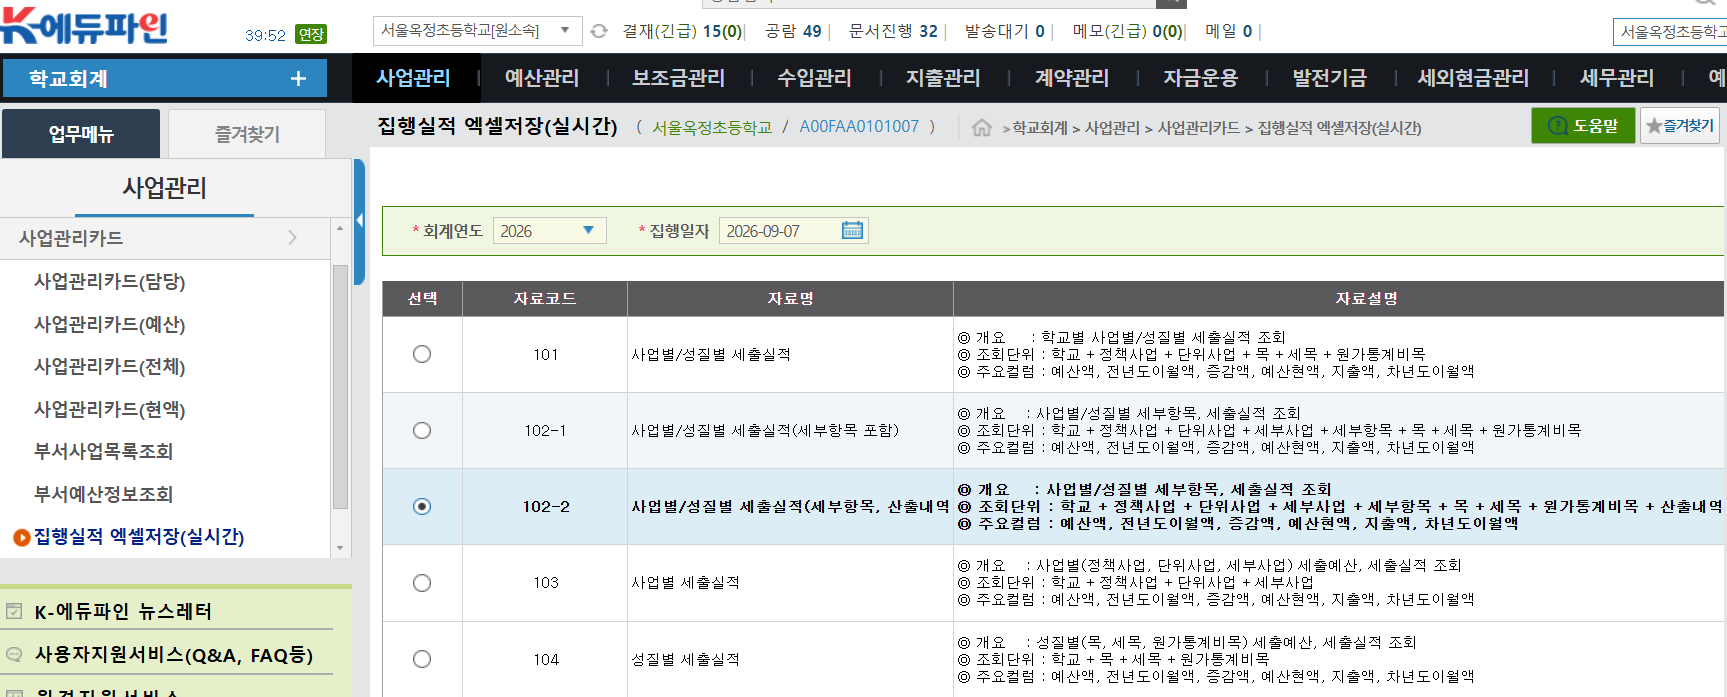
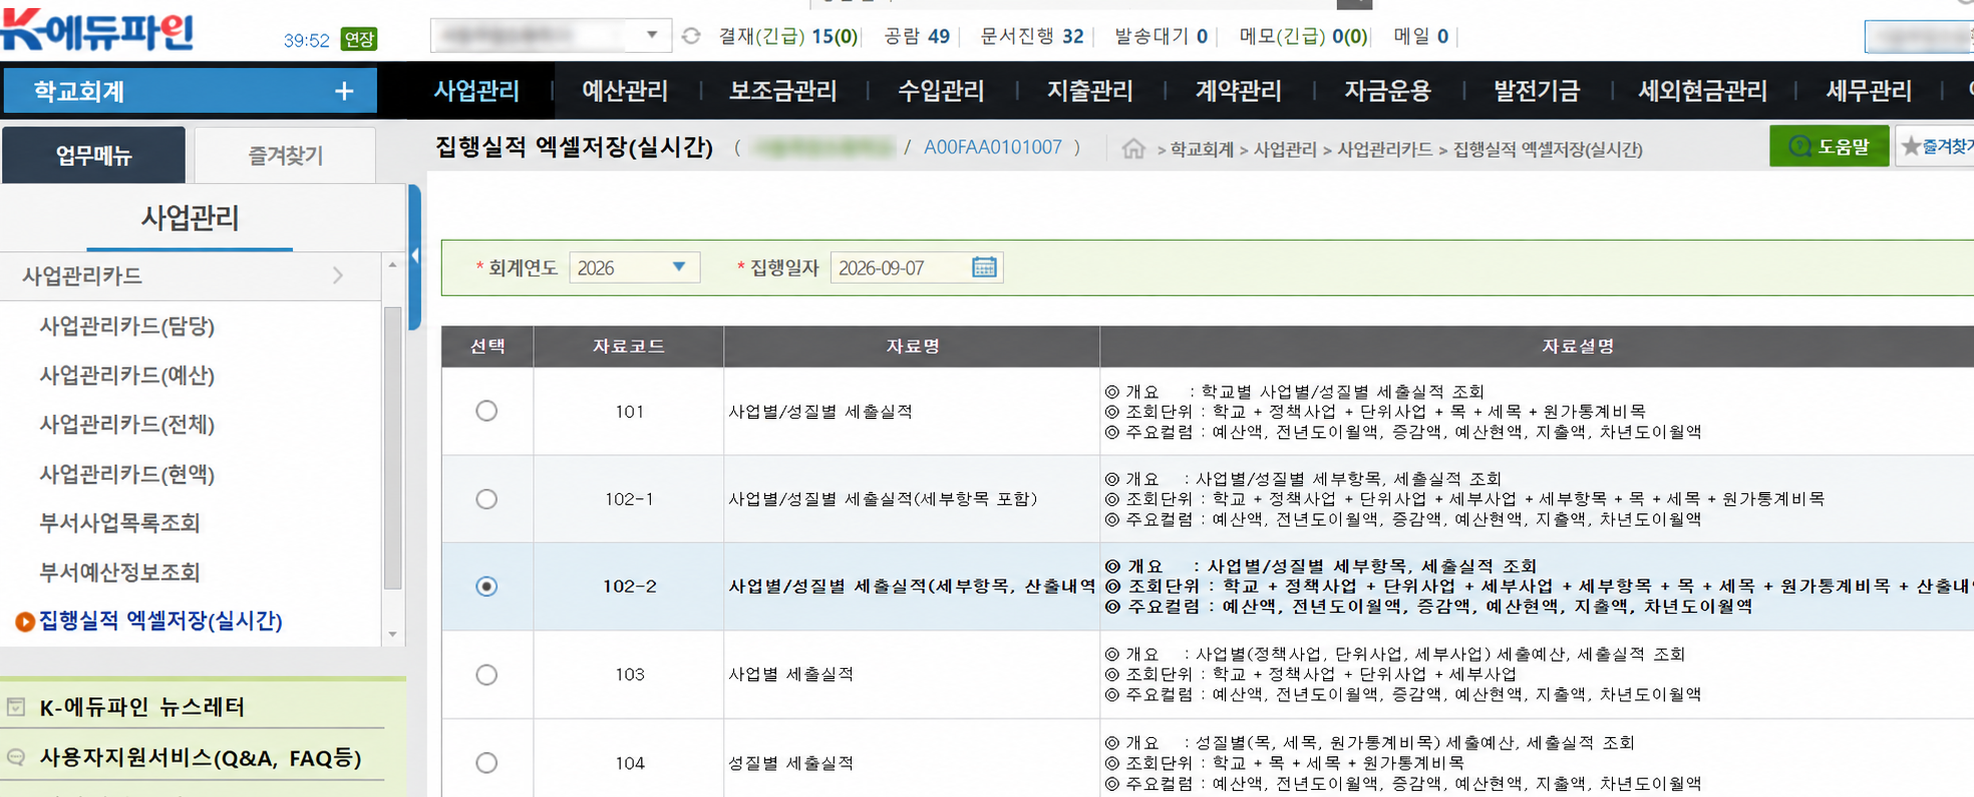
fix: keep page navigation static and blur school name

diff --git a/src/App.test.tsx b/src/App.test.tsx
@@ -316,6 +316,17 @@ describe("예산업무 포털", () => {
     expect(screen.getByRole("heading", { name: "학교예산 한눈에 이용 안내" })).toBeVisible();
   });
 
+  it("업무 화면 이동 버튼은 왼쪽에 배치되고 스크롤을 따라오지 않는다", async () => {
+    const user = userEvent.setup();
+    render(<Portal displayName="김담당" schoolName="서울한빛초등학교" />);
+    await user.click(screen.getByRole("button", { name: "학교예산 한눈에 이용 안내 확인" }));
+    await user.click(screen.getByRole("button", { name: "결산 설명서로 이동" }));
+
+    const navigation = screen.getByRole("navigation", { name: "페이지 이동" });
+    expect(getComputedStyle(navigation).position).toBe("static");
+    expect(getComputedStyle(navigation).justifyContent).toBe("flex-start");
+  });
+
   it("통합검색 준비 중 메뉴를 표시하지 않는다", () => {
     render(<Portal displayName="김담당" schoolName="서울한빛초등학교" />);
     expect(screen.queryByRole("button", { name: "통합검색 준비 중" })).not.toBeInTheDocument();

diff --git a/src/features/portal/portalWorkspace.css b/src/features/portal/portalWorkspace.css
@@ -12,14 +12,12 @@
 }
 
 .portal-page-navigation {
-  position: sticky;
-  top: 76px;
-  z-index: 9;
   display: flex;
+  flex-wrap: wrap;
   gap: 10px;
   width: min(calc(100% - 80px), 1240px);
-  margin: 0 auto -20px;
-  padding: 16px 0 0;
+  margin: 0 auto;
+  padding: 20px 0 0;
 }
 .portal-page-navigation button {
   display: inline-flex;
@@ -36,7 +34,6 @@
   font-size: 14px;
   font-weight: 800;
   cursor: pointer;
-  backdrop-filter: blur(8px);
 }
 .portal-page-navigation button:last-child:not(:only-child) {
   border-color: #9fd3d4;
@@ -209,9 +206,8 @@
 @media (max-width: 760px) {
   .portal-workspace { padding-inline: 18px; }
   .portal-page-navigation {
-    top: 64px;
     width: calc(100% - 36px);
-    margin-bottom: -12px;
+    padding-top: 14px;
   }
-  .portal-page-navigation button { flex: 1; padding-inline: 10px; font-size: 13px; }
+  .portal-page-navigation button { flex: 0 1 auto; padding-inline: 10px; font-size: 13px; }
 }

diff --git a/src/App.tsx b/src/App.tsx
@@ -433,7 +433,15 @@ export function Portal({
 }
 
 function PortalPageNavigation({ children }: { children: ReactNode }) {
-  return <nav className="portal-page-navigation" aria-label="페이지 이동">{children}</nav>;
+  return (
+    <nav
+      className="portal-page-navigation"
+      aria-label="페이지 이동"
+      style={{ position: "static", justifyContent: "flex-start" }}
+    >
+      {children}
+    </nav>
+  );
 }
 
 function Prebudget({
